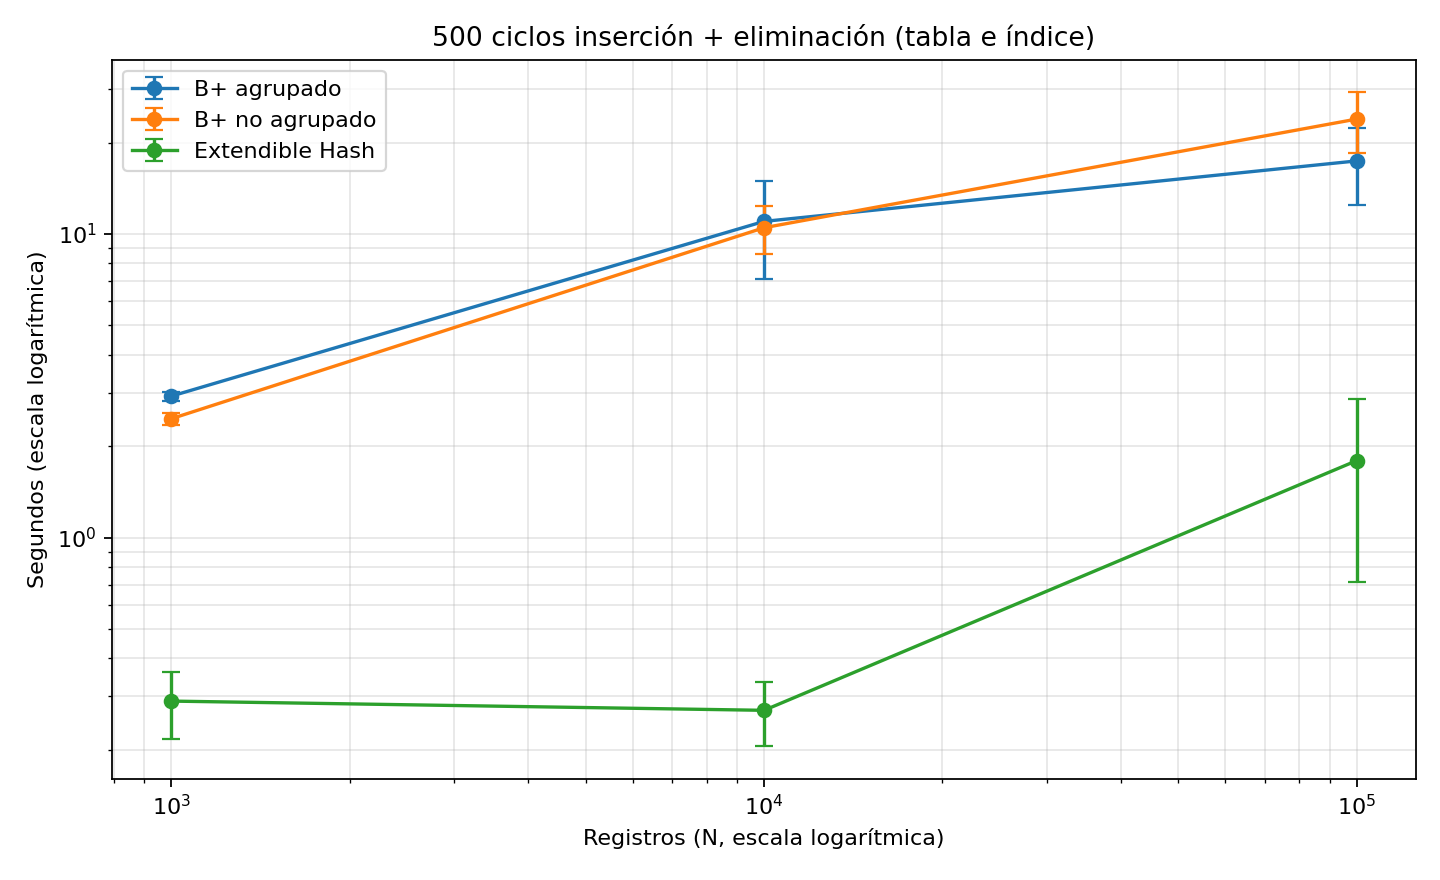
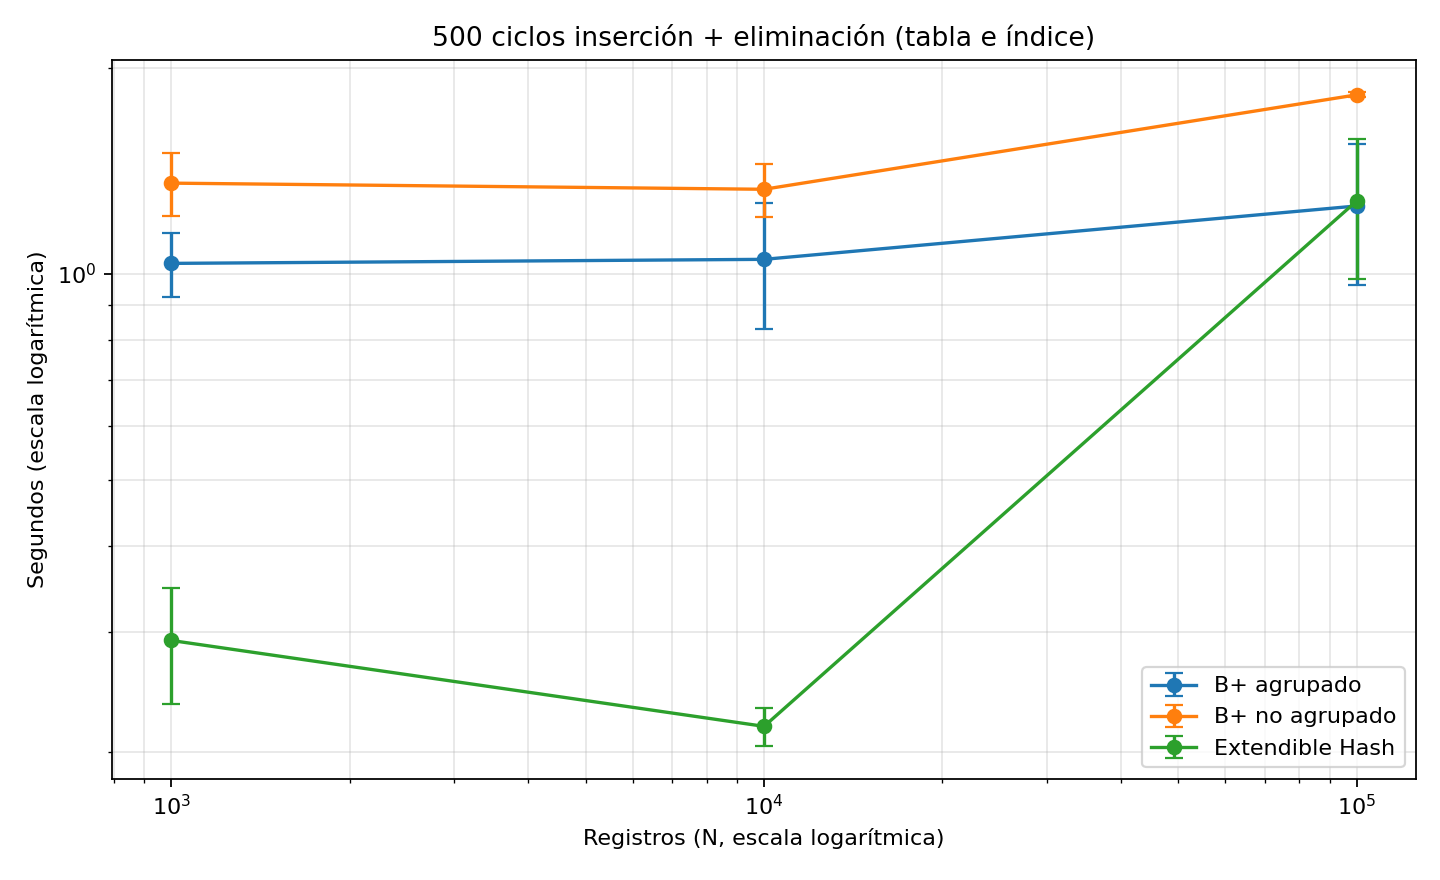
docs(informe): actualizar benchmark de índices tras optimizar el DELETE del B+ (#28)
Nueva corrida oficial (1K, 10K, 100K; 3 repeticiones). Las 1000
inserciones/eliminaciones en 100K bajan de 17,4 a 1,26 s en el B+ agrupado
y de 23,9 a 1,82 s en el no agrupado, y ya casi no dependen de N. Se
actualizan las tablas y conclusiones de la sección 3.3.

diff --git a/docs/informe.md b/docs/informe.md
@@ -154,14 +154,14 @@ Las pruebas se ejecutan con scripts de consola independientes del frontend (`ben
 * **Páginas** de **4096 bytes** en todas las estructuras.
 * **Repeticiones**: **3 corridas por tamaño**. Las tablas reportan la **media**, y las gráficas muestran barras de error de ± 1 desviación estándar (`*_comparison.csv`; cada corrida está en `*_runs.csv`).
 * **Gráficas en escala log-log** (también las de espacio), para comparar crecimientos sin distorsiones.
-* **Entorno**: Windows 11 (AMD64), Python 3.13.5, sin vaciar la caché del sistema operativo. La corrida de almacenamiento tomó **250 s** y la de índices **1.243 s**.
+* **Entorno**: Windows 11 (AMD64), Python 3.13.5, sin vaciar la caché del sistema operativo. La corrida de almacenamiento tomó **250 s** y la de índices **1.043 s**.
 
 > **Corrección respecto de la versión anterior de este informe.** La medición original (18/09) tenía tres problemas que invalidaban varias conclusiones:
 > 1. El Archivo Secuencial dejaba **una sola página en `main`** y enviaba el resto de los registros a `aux` (con N=10.000: 1 página en `main` y 101 en `aux`). En la práctica se comparaba un heap contra otro heap, la búsqueda del secuencial era lineal y el espacio en disco salía idéntico.
 > 2. La búsqueda del Heap recorría el archivo completo aunque la clave fuera primaria, y el B+ no agrupado devolvía RIDs sin leer los registros del heap.
-> 3. El B+ recalculaba todos los separadores del camino tras **cada** inserción. Además, todos los índices usaban M = 64, sin importar el tamaño real de sus entradas.
+> 3. El B+ recalculaba todos los separadores del camino tras **cada** inserción y eliminación. Además, todos los índices usaban M = 64, sin importar el tamaño real de sus entradas.
 >
-> Se corrigieron el motor (secuencial con reorganización automática y separadores del B+ actualizados en O(altura)) y los benchmarks. Todos los números de esta sección provienen de la nueva corrida.
+> Se corrigieron el motor (secuencial con reorganización automática; inserción y eliminación del B+ en O(altura)) y los benchmarks. Todos los números de esta sección provienen de la nueva corrida.
 
 ### 3.2 Comparación de Almacenamiento: Heap File vs Archivo Secuencial
 
@@ -228,12 +228,12 @@ Tras borrar el **35%** de los registros (no cronometrado), `needs_reorganization
 
 | N | B+ agrupado | B+ no agrupado | Extendible Hash |
 | ---: | ---: | ---: | ---: |
-| 1.000 | 0,63 s | 1,17 s | 0,05 s |
-| 10.000 | 8,52 s | 13,46 s | 0,70 s |
-| 100.000 | 97,19 s | 161,31 s | 9,58 s |
+| 1.000 | 0,63 s | 1,19 s | 0,04 s |
+| 10.000 | 6,92 s | 12,03 s | 0,62 s |
+| 100.000 | 89,61 s | 168,80 s | 8,00 s |
 
-* El hash es **16,8 veces más rápido** que el B+ no agrupado en 100K. Trabaja en RAM y escribe un único snapshot JSON al final (incluido en el tiempo), mientras que el B+ escribe y hace `flush` de cada página que modifica.
-* El no agrupado tarda **1,66 veces** más que el agrupado aunque sus entradas son más pequeñas. Con M = 254, cada escritura de nodo serializa casi el triple de entradas que con M = 92.
+* El hash es **21 veces más rápido** que el B+ no agrupado en 100K. Trabaja en RAM y escribe un único snapshot JSON al final (incluido en el tiempo), mientras que el B+ escribe y hace `flush` de cada página que modifica.
+* El no agrupado tarda **1,88 veces** más que el agrupado aunque sus entradas son más pequeñas. Con M = 254, cada escritura de nodo serializa casi el triple de entradas que con M = 92.
 * Con la versión anterior del B+ (M = 64 y recálculo completo de separadores en cada inserción), construir 100K registros tomaba **698 s** (agrupado) y **443 s** (no agrupado).
 
 #### Búsqueda por igualdad
@@ -243,11 +243,11 @@ Promedio por consulta, registro completo:
 
 | N | B+ agrupado | B+ no agrupado | Extendible Hash |
 | ---: | ---: | ---: | ---: |
-| 1.000 | 0,25 ms | 0,71 ms | 0,05 ms |
-| 10.000 | 0,38 ms | 0,66 ms | 0,09 ms |
-| 100.000 | 0,62 ms | 1,00 ms | 0,14 ms |
+| 1.000 | 0,28 ms | 0,65 ms | 0,05 ms |
+| 10.000 | 0,37 ms | 0,75 ms | 0,09 ms |
+| 100.000 | 0,46 ms | 0,99 ms | 0,10 ms |
 
-El hash es el más rápido: calcula el bucket directamente (BLAKE2b) en RAM y hace **una sola lectura** del heap. El B+ agrupado lee la altura del árbol y encuentra el registro en la hoja. El no agrupado lee la altura del árbol **más** una página del heap. Por eso es entre 1,6 y 2,8 veces más lento que el agrupado. Los tres crecen poco con N (O(1) y O(log N)).
+El hash es el más rápido: calcula el bucket directamente (BLAKE2b) en RAM y hace **una sola lectura** del heap. El B+ agrupado lee la altura del árbol y encuentra el registro en la hoja. El no agrupado lee la altura del árbol **más** una página del heap, por eso es entre 2,0 y 2,4 veces más lento que el agrupado. Los tres crecen poco con N (O(1) y O(log N)).
 
 #### Búsqueda por rango
 ![](../benchmarks/results/indexes_tiempo_rango.png)
@@ -256,19 +256,19 @@ Promedio de 20 rangos `[k, k+100]` (101 registros):
 
 | N | B+ agrupado | B+ no agrupado |
 | ---: | ---: | ---: |
-| 1.000 | 0,80 ms | 2,95 ms |
-| 10.000 | 1,11 ms | 2,80 ms |
-| 100.000 | 1,55 ms | 5,40 ms |
+| 1.000 | 1,04 ms | 2,02 ms |
+| 10.000 | 1,13 ms | 3,20 ms |
+| 100.000 | 1,14 ms | 3,44 ms |
 
-En el **agrupado** los 101 registros están contiguos en 1 o 2 hojas. El **no agrupado** recorre sus hojas, pero debe leer cada uno de los 101 RIDs en una página distinta del heap. Como los datos se insertaron en orden aleatorio, claves vecinas quedan en páginas distintas, y el agrupado resulta **3,5 veces más rápido** en 100K. (La versión anterior del informe concluía lo contrario porque el no agrupado no leía los registros.) El **Extendible Hash no soporta rangos**: la función hash dispersa claves consecutivas en buckets distintos.
+En el **agrupado** los 101 registros están contiguos en 1 o 2 hojas. El **no agrupado** recorre sus hojas, pero debe leer cada uno de los 101 RIDs en una página distinta del heap. Como los datos se insertaron en orden aleatorio, claves vecinas quedan en páginas distintas, y el agrupado resulta **3 veces más rápido** en 100K. (La versión anterior del informe concluía lo contrario porque el no agrupado no leía los registros.) El **Extendible Hash no soporta rangos**: la función hash dispersa claves consecutivas en buckets distintos.
 
 #### Ordenamiento (ORDER BY)
 ![](../benchmarks/results/indexes_tiempo_orden.png)
 
-`ORDER BY id` sobre toda la tabla: **0,45 s** (agrupado), **3,93 s** (no agrupado) y **15,41 s** (hash) con 100K registros.
+`ORDER BY id` sobre toda la tabla: **0,50 s** (agrupado), **3,74 s** (no agrupado) y **12,54 s** (hash) con 100K registros.
 * El agrupado recorre sus hojas encadenadas, que ya están ordenadas.
-* El no agrupado obtiene el orden de sus hojas, pero hace una lectura aleatoria del heap por cada registro.
-* El hash no aporta orden, así que el motor recurre a `scan` del heap + *external sort* k-way. Es 34 veces más lento que el agrupado.
+* El no agrupado obtiene el orden de sus hojas, pero hace una lectura aleatoria del heap por cada registro: 7,5 veces más lento que el agrupado.
+* El hash no aporta orden, así que el motor recurre a `scan` del heap + *external sort* k-way: 25 veces más lento que el agrupado.
 
 #### Espacio en disco y memoria
 ![](../benchmarks/results/indexes_espacio_total.png)
@@ -283,20 +283,28 @@ Los tres terminan ocupando de 1,52 a 1,57 veces lo que ocupa el heap solo. La di
 #### Inserciones y eliminaciones frecuentes
 ![](../benchmarks/results/indexes_tiempo_actualizaciones.png)
 
-500 ciclos de inserción + eliminación (1.000 operaciones, en tabla e índice): **17,4 s** (agrupado), **23,9 s** (no agrupado) y **1,79 s** (hash) en 100K.
-* El hash resuelve cada operación en RAM con splits y merges locales.
-* En el B+, la eliminación sigue recalculando los separadores del camino con `_first_key`. Es el costo dominante y la siguiente optimización pendiente, igual a la que ya se aplicó a la inserción.
+500 ciclos de inserción + eliminación (1.000 operaciones, en tabla e índice):
+
+| N | B+ agrupado | B+ no agrupado | Extendible Hash |
+| ---: | ---: | ---: | ---: |
+| 1.000 | 1,04 s | 1,36 s | 0,29 s |
+| 10.000 | 1,05 s | 1,33 s | 0,22 s |
+| 100.000 | 1,26 s | 1,82 s | 1,28 s |
+
+* En el B+, inserción y eliminación cuestan O(altura): los splits, redistribuciones y fusiones actualizan solo los separadores afectados. Por eso el tiempo casi no cambia entre 1.000 y 100.000 registros (de 1,0 a 1,3 s en el agrupado).
+* Con la versión anterior, que recalculaba los separadores de todo el camino al eliminar, las mismas 1.000 operaciones tomaban **17,4 s** (agrupado) y **23,9 s** (no agrupado) en 100K: ahora son **14 y 13 veces más rápidas**.
+* El hash resuelve cada operación en RAM; su tiempo en 100K incluye además reescribir el snapshot JSON completo (2,17 MB) al final, por lo que ahí queda a la par del B+ agrupado.
 
 #### Resumen y conclusiones de índices
 
 | Técnica | Ventajas | Desventajas | Escenario recomendado |
 | :--- | :--- | :--- | :--- |
-| **B+ Agrupado** | El mejor en rangos (3,5× frente al no agrupado) y en ORDER BY (8,7×); igualdad en O(log N) sin I/O adicional. | Solo uno por tabla (define el orden físico); splits mueven registros completos; ~57% más espacio que un heap. | Clave primaria de tablas con consultas de rango, ordenamientos o recorridos por clave. |
-| **B+ No Agrupado** | Rangos y orden sobre cualquier columna; permite varios por tabla; claves duplicadas. | Una lectura aleatoria del heap por registro: 3,5× más lento que el agrupado en rangos y 8,7× en ORDER BY. | Índices secundarios sobre columnas con filtros de rango selectivos (pocos registros por consulta). |
-| **Extendible Hash** | La igualdad más rápida (0,14 ms en 100K) y las actualizaciones más baratas; construcción 16,8× más rápida. | No soporta rangos ni orden; reside en RAM (23,8 MB para 100K) y persiste por snapshot completo. | Búsquedas exactas y joins por igualdad sobre claves que no se consultan por rango. |
+| **B+ Agrupado** | El mejor en rangos (3× frente al no agrupado) y en ORDER BY (7,5×); igualdad en O(log N) sin I/O adicional; actualizaciones en O(altura). | Solo uno por tabla (define el orden físico); splits mueven registros completos; ~57% más espacio que un heap. | Clave primaria de tablas con consultas de rango, ordenamientos o recorridos por clave (`CREATE TABLE ... USING BTREE`). |
+| **B+ No Agrupado** | Rangos y orden sobre cualquier columna; permite varios por tabla; claves duplicadas. | Una lectura aleatoria del heap por registro: 3× más lento que el agrupado en rangos y 7,5× en ORDER BY. | Índices secundarios sobre columnas con filtros de rango selectivos (pocos registros por consulta). |
+| **Extendible Hash** | La igualdad más rápida (0,10 ms en 100K); construcción 21× más rápida. | No soporta rangos ni orden; reside en RAM (23,8 MB para 100K) y persiste por snapshot completo, cuyo costo crece con N. | Búsquedas exactas y joins por igualdad sobre claves que no se consultan por rango. |
 
 ### 3.4 Conclusión general de la Parte 1
 No existe una estructura óptima para todo: cada una equilibra de forma distinta el costo de escritura, la latencia de lectura y el consumo de recursos.
-* Para **alta tasa de escritura con consultas de punto exacto**, la mejor combinación es **Heap File + Extendible Hash**: inserción O(1) y búsqueda en ~0,1 ms, a cambio de mantener el índice en RAM.
+* Para **alta tasa de escritura con consultas de punto exacto**, la mejor combinación es **Heap File + Extendible Hash**: inserción O(1) y búsqueda en ~0,1 ms, a cambio de mantener el índice en RAM. Desde SQL, los índices se mantienen fila por fila en cada INSERT/DELETE (no se reconstruyen).
 * Para **consultas por rango u ordenamiento sobre la clave primaria**, conviene un **B+ agrupado**, o un **Sequential File** si la tabla se lee mucho más de lo que se escribe. Las mediciones corregidas muestran que la búsqueda binaria del secuencial supera al heap por más de tres órdenes de magnitud, a cambio de insertar ~3 veces más lento.
 * El **B+ no agrupado** se justifica para columnas secundarias con filtros selectivos. En rangos grandes o en ORDER BY de toda la tabla, sus lecturas aleatorias al heap lo vuelven varias veces más lento que el agrupado.
